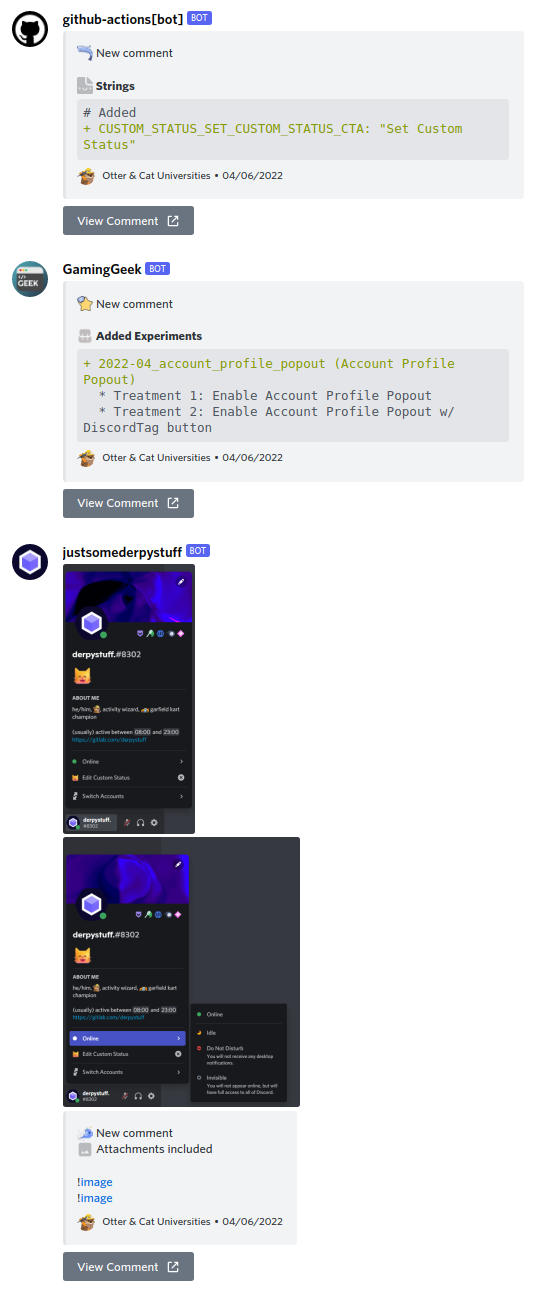
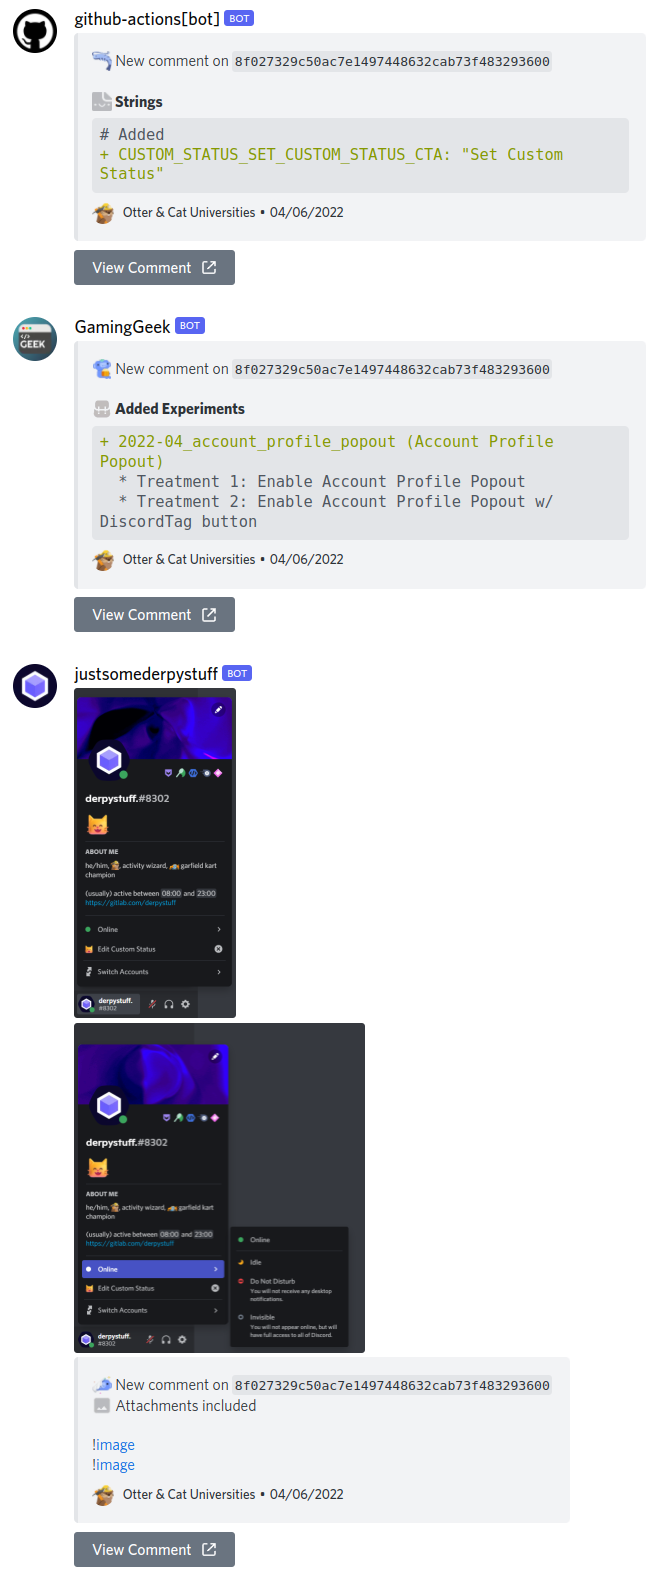
feat: show commit hash in embed

Changed region(s): [[0.0295, 0.0, 0.825, 1.0], [0.7072, 0.0928, 0.8545, 0.1237], [0.0, 0.0, 0.0884, 0.0619]]

diff --git a/src/index.js b/src/index.js
@@ -85,7 +85,7 @@ async function buildResponseJSON(comment) {
 
     // The description of the main embed
     const rEmoji = emojis[~~(Math.random() * emojis.length)]
-    const rTitle = `${rEmoji} New comment${media.length > 0
+    const rTitle = `${rEmoji} New comment on \`${comment.commit_id}\`${media.length > 0
         ? '\n<:MesssageAttachment:961660264917368873> Attachments included'
         : ''
         }\n\n`

diff --git a/README.md b/README.md
@@ -1,6 +1,7 @@
 # Datamining Worker
 
-Totally not used a worker template, totally did not use [this template](https://github.com/cloudflare/worker-template/)
+Totally not used a worker template, totally did not use
+[this template](https://github.com/cloudflare/worker-template/)
 
 My regex hell for a simple middleware for datamining webhooks
 
@@ -12,5 +13,7 @@ Github/Discord-Datamining/Discord-Datamining (new comment)
 ```
 
 Example Commit
+> **NOTE:** Your webhooks should be owned by a bot, or else you won't be
+> be able to see the button
 
 ![Example Image](./webhook_demo.png)

diff --git a/test_data/README.md b/test_data/README.md
@@ -1,6 +1,7 @@
 # Test Data available here
 
-**NOTE:** Make sure to include a `X-GitHub-Event` header set to `commit_comment`
-in your request.
+**NOTE:** Make sure to include a `X-GitHub-Event` header set to
+`commit_comment` in your request.
 
-Data was extracted from an actual commit, i.e. https://github.com/Discord-Datamining/Discord-Datamining/commit/8f027329c50ac7e1497448632cab73f483293600
+Data was extracted from an actual commit, i.e.
+https://github.com/Discord-Datamining/Discord-Datamining/commit/8f027329c50ac7e1497448632cab73f483293600
